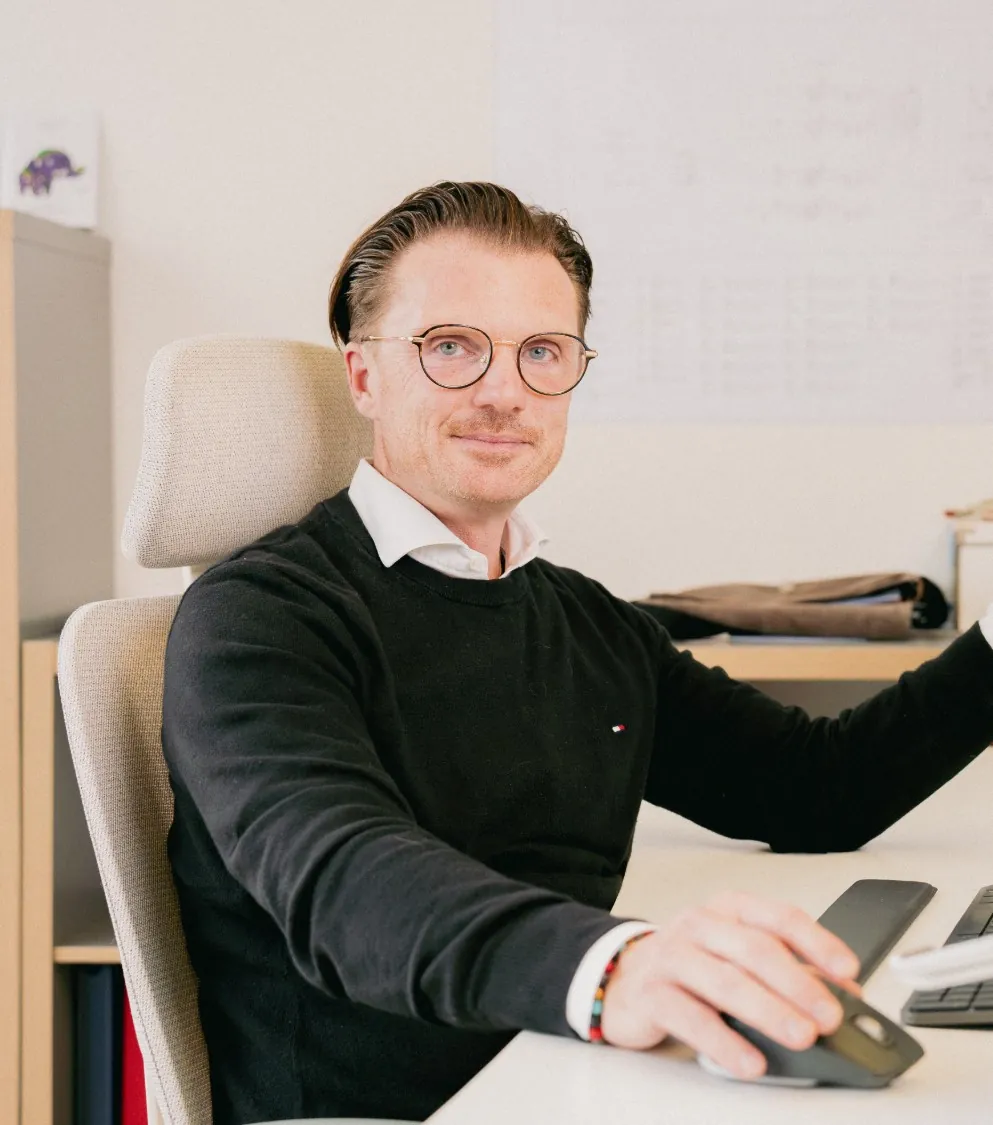
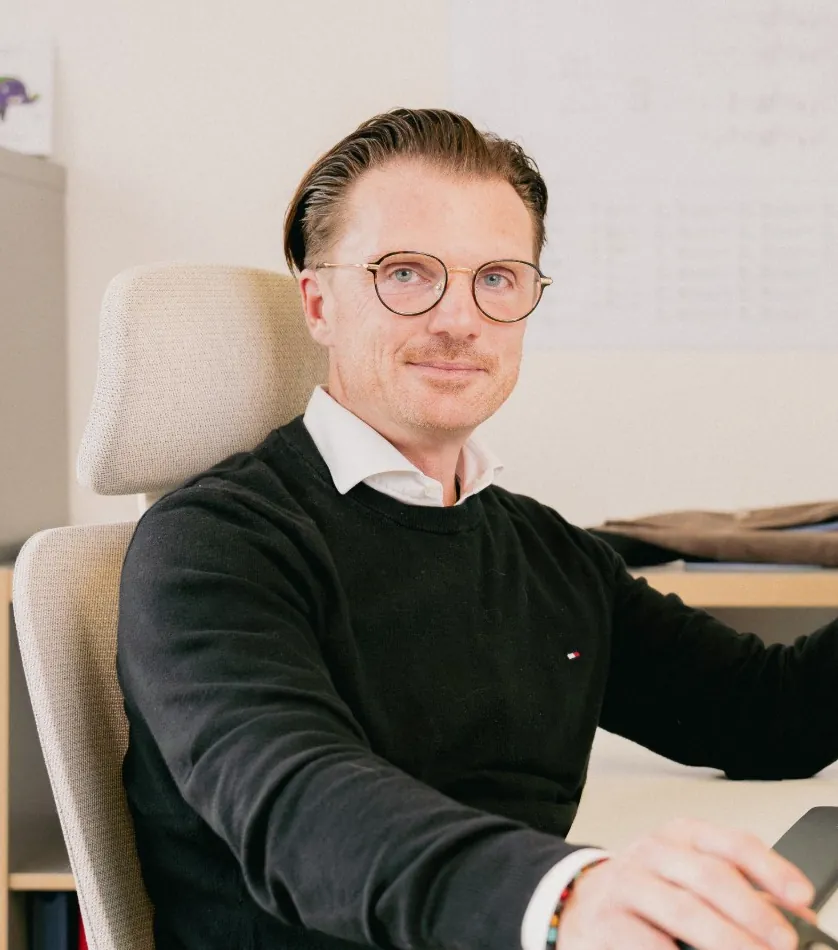
Manuels Karte auf Vesa ausgerichtet
Kopfoberkante und Kopfhoehe am Rendering ausgemessen und Manuels Ausschnitt
danach gerechnet: beide Koepfe sitzen jetzt auf derselben Hoehe und sind
gleich gross. Datei 838x950 statt 993x1125, weil der engere Ausschnitt
weniger Vorlage nutzt.

diff --git a/index.html b/index.html
@@ -505,8 +505,8 @@
       <!-- Ruhe: nur der Name. Beim Zeigen (oder Tab-Fokus) taucht der Rufname
            im Bild auf und die Taetigkeit faehrt in der Leiste auf. -->
       <article class="person" tabindex="0">
-        <img src="assets/img/team-manuel.webp" width="993" height="1125" alt="Manuel Leitner" loading="lazy" decoding="async"
-                   srcset="assets/img/team-manuel-400.webp 400w, assets/img/team-manuel-700.webp 700w, assets/img/team-manuel.webp 993w"
+        <img src="assets/img/team-manuel.webp" width="838" height="950" alt="Manuel Leitner" loading="lazy" decoding="async"
+                   srcset="assets/img/team-manuel-400.webp 400w, assets/img/team-manuel-600.webp 600w, assets/img/team-manuel.webp 838w"
                    sizes="(max-width: 900px) 100vw, 30vw">
         <div class="person__bar">
           <div><span class="person__ruf" aria-hidden="true"><span>«Manu»</span></span><span class="kenn nm">Manuel Leitner</span><span class="rl"><span>Gesamtprojektleiter<br>Master Virtual Design and Construction</span></span></div>
